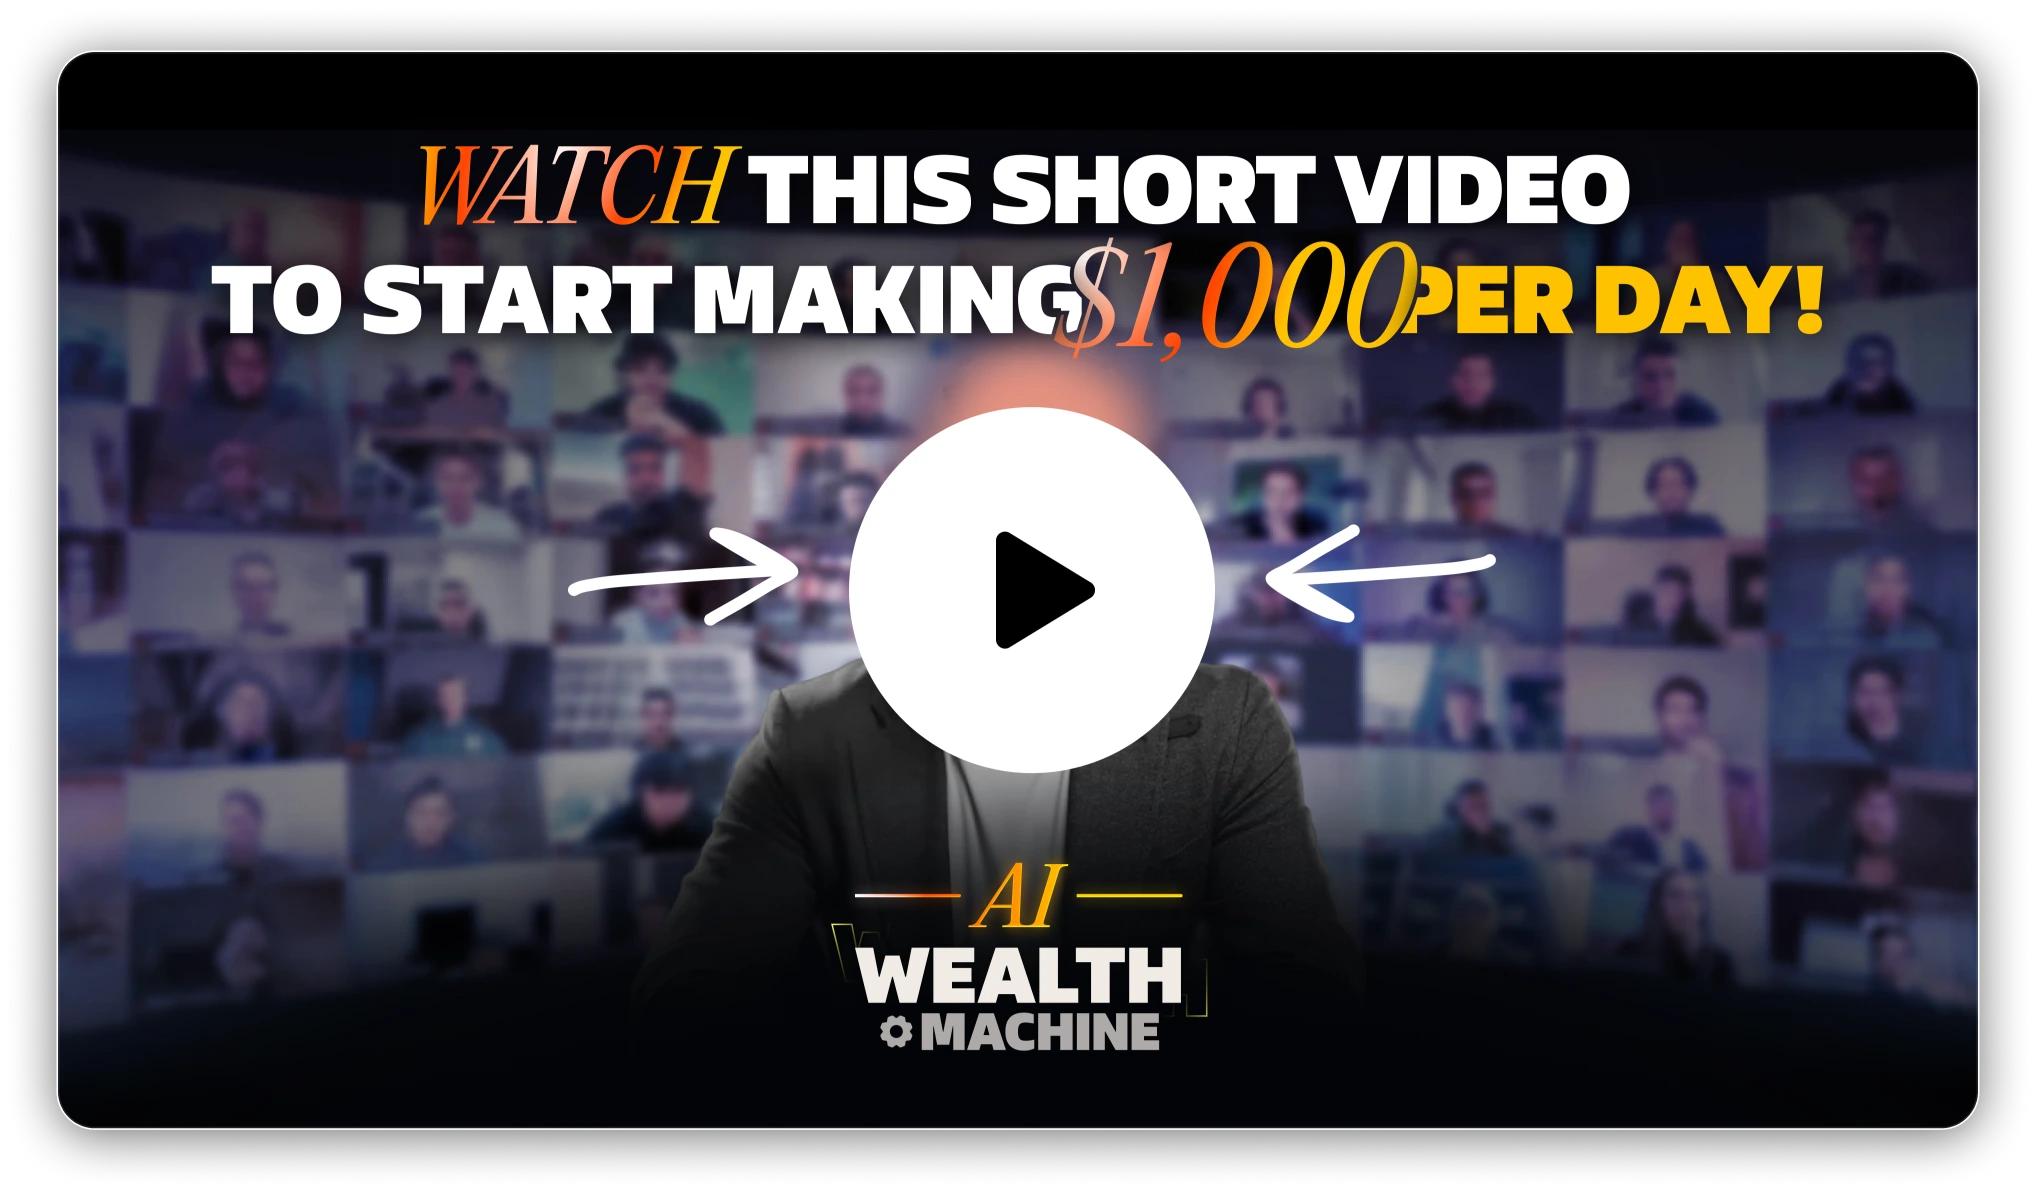
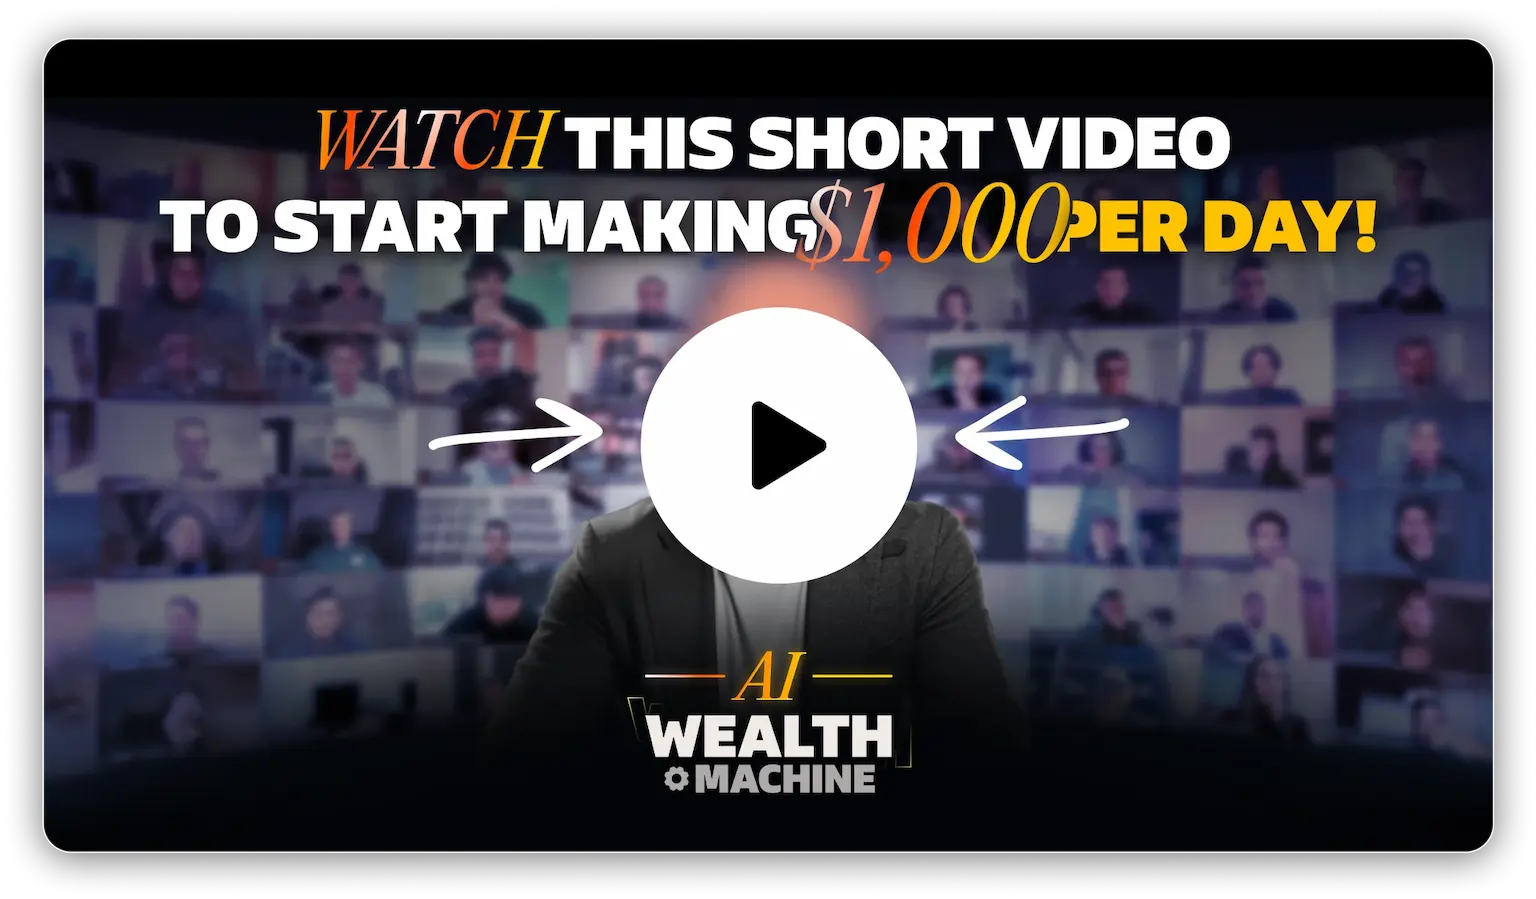
perf: optimize images and add responsive sizes
Compressed and optimized image assets. Added sizes attribute to Next.js Image components for better responsive loading and performance.

diff --git a/src/components/reviews-tiktok/CarouselTikTok.tsx b/src/components/reviews-tiktok/CarouselTikTok.tsx
@@ -21,7 +21,14 @@ export default function CarouselTikTok() {
             <CarouselContent>
                 {dataRevieTiktok.reviewTiktokItems.map((reviewTiktokItem, index) => (
                     <CarouselItem key={reviewTiktokItem.name + index} className="pl-6 basis-[60%] md:basis-[40%] lg:basis-[30%] xl:basis-1/4 text-center">
-                        <VideoC pauseOnClick={true} controls={false} dataVideoParameter={reviewTiktokItem.video} className="aspect-[0.7/1]" aspectRatio="aspect-[0.7/1]" />
+                        <VideoC
+                            sizes="(max-width: 768px) 80vw, (max-width: 1200px) 30vw, 300px"
+                            pauseOnClick={true}
+                            controls={false}
+                            dataVideoParameter={reviewTiktokItem.video}
+                            className="aspect-[0.7/1]"
+                            aspectRatio="aspect-[0.7/1]"
+                        />
                         <div className="font-paralucent font-normal pt-4 bg-gradient-to-r from-gold-custom-start to-gold-custom-end bg-clip-text text-transparent">
                             <p className="text-lg {dataRevieTiktok.by}">{reviewTiktokItem.name}</p>
                             <p className="flex justify-center items-center uppercase text-xs">

diff --git a/src/components/video/Video.tsx b/src/components/video/Video.tsx
@@ -14,6 +14,7 @@ export type VideoCProps = {
     aspectRatio?: string;
     fetchPriority?: "auto" | "high" | "low" | undefined;
     preload?: "auto" | "metadata" | "none";
+    sizes: string,
     classNameVideo?: string;
     className?: string;
 
@@ -27,6 +28,7 @@ export default function VideoC({
     aspectRatio = "",
     fetchPriority = "auto",
     preload = "none",
+    sizes = "(max-width: 768px) 100vw, (max-width: 1200px) 50vw, 1536px",
     classNameVideo = "",
     className = ""
 }: VideoCProps) {
@@ -52,7 +54,7 @@ export default function VideoC({
                     />
                 }
                 <Image
-                    sizes="(max-width: 1536px) 100vw, 100vw"
+                    sizes={sizes}
                     fill
                     src={(dataVideoParameter.poster.srcMobile as StaticImageData)?.src ?? (dataVideoParameter.poster.src as StaticImageData).src}
                     alt={dataVideoParameter.poster.alt}

diff --git a/src/components/video/VideoCStartTimer.tsx b/src/components/video/VideoCStartTimer.tsx
@@ -5,10 +5,10 @@ import { useTimerStore } from "@/store/timerStore";
 
 type VideoCStartTimer = VideoCProps & { seconds?: number }
 
-export default function VideoCStartTimer({ dataVideoParameter, seconds = 5, aspectRatio, fetchPriority, preload, classNameVideo, className }: VideoCStartTimer) {
+export default function VideoCStartTimer({ dataVideoParameter, seconds = 5, aspectRatio, fetchPriority, preload, classNameVideo, className, sizes }: VideoCStartTimer) {
     return (
         <VideoC dataVideoParameter={dataVideoParameter} widthStartVideo={() => {
             useTimerStore.getState().start(seconds);
-        }} aspectRatio={aspectRatio} classNameVideo={classNameVideo} className={className} fetchPriority={fetchPriority} preload={preload} />
+        }} aspectRatio={aspectRatio} classNameVideo={classNameVideo} className={className} fetchPriority={fetchPriority} preload={preload} sizes={sizes} />
     )
 }

diff --git a/src/components/hero/Hero.tsx b/src/components/hero/Hero.tsx
@@ -22,8 +22,7 @@ export default function Hero() {
         preload="metadata"
         aspectRatio="aspect-[1/1.23] md:aspect-video"
         className="aspect-[1/1.23] md:aspect-video 2xl:w-2/3"
-      />
-
+        sizes="(max-width: 768px) 100vw, (max-width: 1536px) 1536px, 1536px" />
       <HeroTimer />
     </section>
   );
